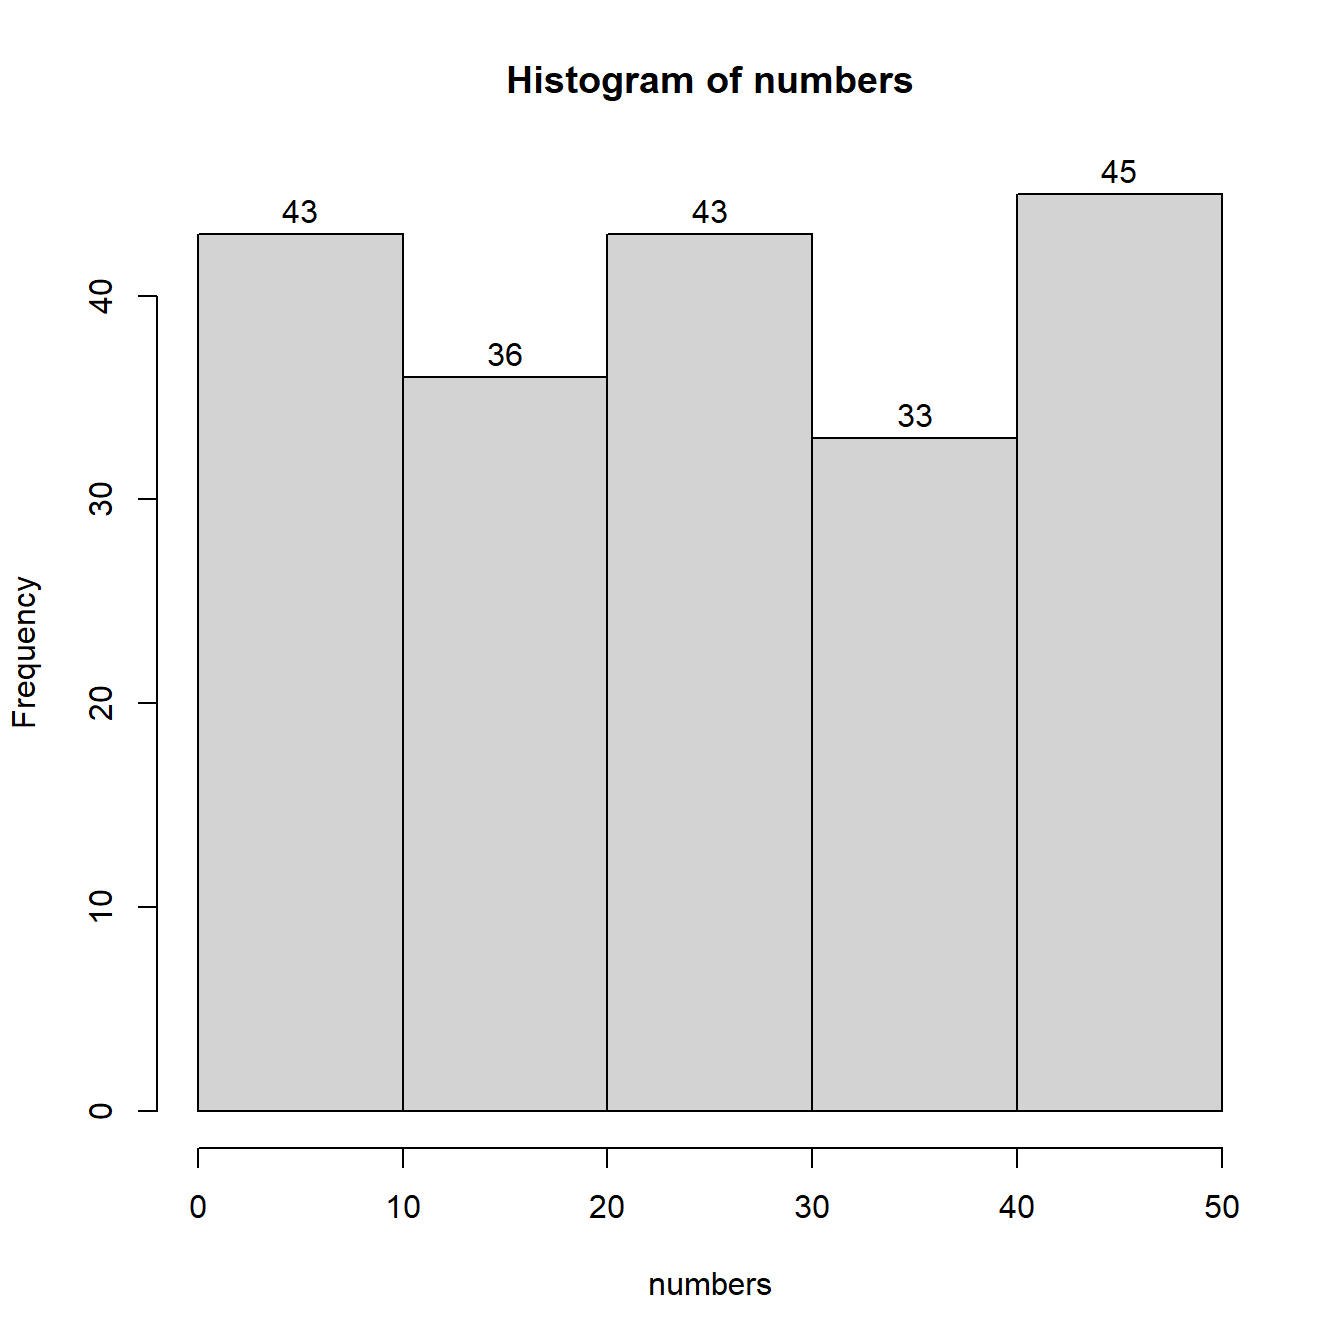
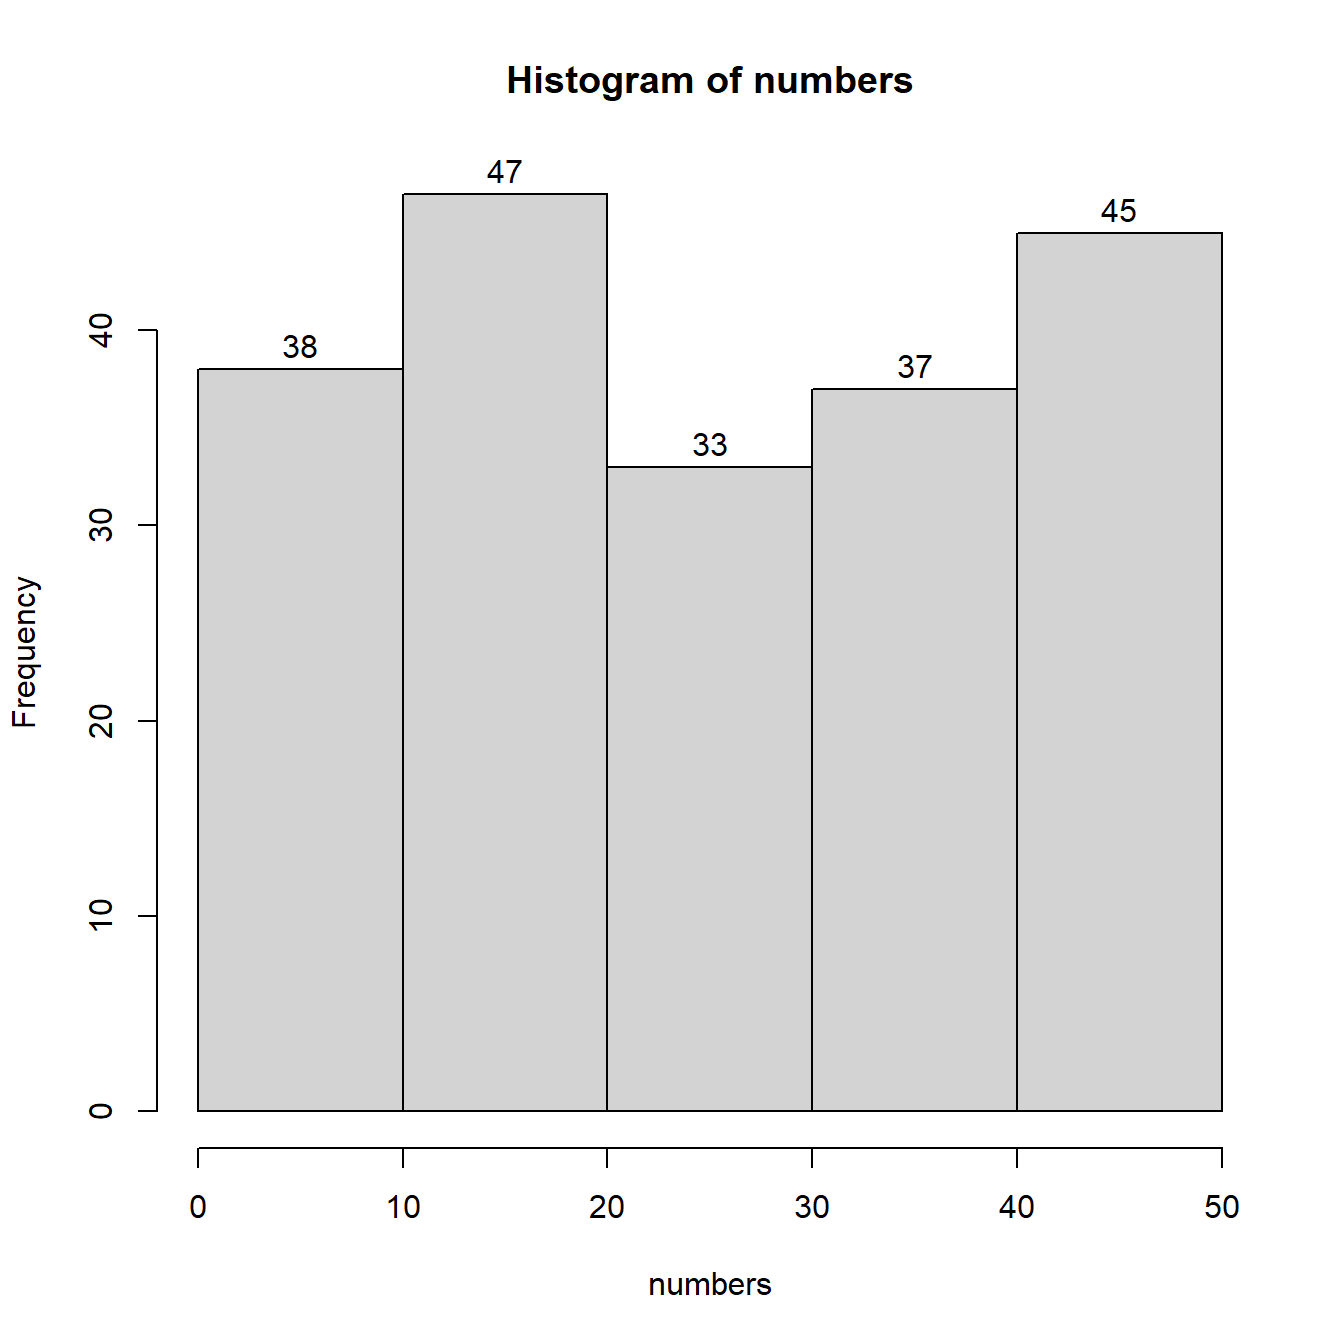
updated exercise 3

diff --git a/docs/Week3.html b/docs/Week3.html
@@ -153,6 +153,7 @@ code span.wa { color: #60a0b0; font-weight: bold; font-style: italic; } /* Warni
 <li class="chapter" data-level="3.3" data-path="Week3.html"><a href="Week3.html#creating-vectors-with-random-numbers"><i class="fa fa-check"></i><b>3.3</b> Creating vectors with random numbers</a></li>
 <li class="chapter" data-level="3.4" data-path="Week3.html"><a href="Week3.html#frequency-tables-in-r-and-histograms"><i class="fa fa-check"></i><b>3.4</b> Frequency tables in R and Histograms</a></li>
 <li class="chapter" data-level="3.5" data-path="Week3.html"><a href="Week3.html#exercise-2"><i class="fa fa-check"></i><b>3.5</b> Exercise 2</a></li>
+<li class="chapter" data-level="3.6" data-path="Week3.html"><a href="Week3.html#exercise-3"><i class="fa fa-check"></i><b>3.6</b> Exercise 3</a></li>
 </ul></li>
 <li class="chapter" data-level="4" data-path="Week4.html"><a href="Week4.html"><i class="fa fa-check"></i><b>4</b> Lab Session 3</a>
 <ul>
@@ -254,7 +255,7 @@ code span.wa { color: #60a0b0; font-weight: bold; font-style: italic; } /* Warni
 <span id="cb7-3"><a href="Week3.html#cb7-3"></a>numbers &lt;-<span class="st"> </span><span class="kw">sample.int</span>(<span class="dv">10</span>, <span class="dv">5</span>, <span class="dt">replace =</span> <span class="ot">TRUE</span>)</span>
 <span id="cb7-4"><a href="Week3.html#cb7-4"></a></span>
 <span id="cb7-5"><a href="Week3.html#cb7-5"></a>numbers</span></code></pre></div>
-<p>[1] 3 4 9 4 4</p>
+<p>[1] 6 10 2 7 6</p>
 <p>As mentioned above, I used a function called <strong>sample.int()</strong>. A <strong>function</strong> in R, is a mechanism that can perform a task. In this case our function can select an integer number randomly. A function also includes two brackets (). Within these brackets we can specify our own arguments in order to be clear what we want R to do for us when this function is used.</p>
 <p>Notice the number 10, this <strong>argument</strong> instructs our function that we want to pick randomly a number between 1 and 10.</p>
 <p>Notice the second number 5, this <strong>argument</strong> instructs our function to give 5 such numbers from 1 to 10.</p>
@@ -268,14 +269,14 @@ code span.wa { color: #60a0b0; font-weight: bold; font-style: italic; } /* Warni
 <span id="cb8-3"><a href="Week3.html#cb8-3"></a><span class="co"># See how my arguments have now changed.</span></span>
 <span id="cb8-4"><a href="Week3.html#cb8-4"></a>numbers &lt;-<span class="st"> </span><span class="kw">sample.int</span>(<span class="dv">50</span>, <span class="dv">200</span>, <span class="dt">replace =</span> <span class="ot">TRUE</span>)</span>
 <span id="cb8-5"><a href="Week3.html#cb8-5"></a>numbers</span></code></pre></div>
-<p>[1] 25 9 31 21 29 12 36 16 3 44 49 15 38 42 6 42 44 42 2 6 12 24 49 35 7
-[26] 17 49 43 8 28 16 1 23 8 29 45 13 23 17 15 12 27 49 48 21 13 15 36 9 1
-[51] 17 47 27 13 44 2 21 2 46 46 12 30 16 7 2 12 1 38 33 24 30 24 41 26 3
-[76] 45 36 40 34 43 3 46 50 47 35 16 26 8 30 1 8 39 31 9 43 10 48 6 43 48
-[101] 12 16 50 19 21 44 24 23 9 15 46 1 7 13 33 41 18 22 8 3 34 42 38 39 38
-[126] 18 33 19 4 45 37 28 34 38 35 49 32 25 4 47 2 23 23 31 42 7 23 31 29 23
-[151] 18 1 34 21 44 19 42 4 30 20 24 6 44 27 49 15 18 5 23 6 24 44 18 17 30
-[176] 21 31 10 48 46 46 19 2 12 33 34 4 44 26 5 25 24 26 32 16 38 39 50 28 1</p>
+<p>[1] 44 21 20 10 2 14 11 29 30 15 1 41 42 38 32 32 30 20 4 46 48 36 11 25 8
+[26] 12 49 40 29 4 43 22 30 41 22 10 33 6 36 11 48 42 12 13 40 28 33 46 6 29
+[51] 4 17 48 6 29 4 17 13 38 38 27 47 2 41 34 13 5 40 6 38 22 11 47 36 15
+[76] 30 24 5 34 3 13 17 6 37 18 13 47 13 10 37 42 7 33 5 45 44 13 25 4 38
+[101] 49 47 32 27 15 44 37 3 42 49 26 6 10 18 29 46 26 33 33 36 14 35 43 14 37
+[126] 17 12 12 33 22 19 14 42 43 49 41 35 38 49 17 11 2 27 31 47 12 5 18 41 2
+[151] 14 5 36 24 41 4 34 20 28 47 3 14 47 11 34 16 3 38 46 1 9 17 6 21 30
+[176] 13 29 19 15 43 50 27 32 41 12 2 27 43 41 23 5 30 23 34 18 42 15 9 43 50</p>
 <div class="sourceCode" id="cb9"><pre class="sourceCode r"><code class="sourceCode r"><span id="cb9-1"><a href="Week3.html#cb9-1"></a><span class="co"># Now we will call a new function to help us group our data.</span></span>
 <span id="cb9-2"><a href="Week3.html#cb9-2"></a><span class="co"># First put them in 5 groups. The numbers in c() declare the numbers that define each group.</span></span>
 <span id="cb9-3"><a href="Week3.html#cb9-3"></a></span>
@@ -284,7 +285,7 @@ code span.wa { color: #60a0b0; font-weight: bold; font-style: italic; } /* Warni
 <span id="cb9-6"><a href="Week3.html#cb9-6"></a><span class="co"># Now I can produce my frequency table using another function</span></span>
 <span id="cb9-7"><a href="Week3.html#cb9-7"></a><span class="kw">summary</span>(groups)</span></code></pre></div>
 <p>(0,10] (10,20] (20,30] (30,40] (40,50]
-43 36 43 33 45</p>
+38 47 33 37 45</p>
 <div class="sourceCode" id="cb10"><pre class="sourceCode r"><code class="sourceCode r"><span id="cb10-1"><a href="Week3.html#cb10-1"></a><span class="co"># We will now use a new function called hist that creates histograms.</span></span>
 <span id="cb10-2"><a href="Week3.html#cb10-2"></a><span class="co"># Note that this function has to work with the original numbers</span></span>
 <span id="cb10-3"><a href="Week3.html#cb10-3"></a><span class="co"># and not with the groups.</span></span>
@@ -302,6 +303,10 @@ code span.wa { color: #60a0b0; font-weight: bold; font-style: italic; } /* Warni
 </div>
 <div id="exercise-2" class="section level2" number="3.5">
 <h2><span class="header-section-number">3.5</span> Exercise 2</h2>
+<p>Empty</p>
+</div>
+<div id="exercise-3" class="section level2" number="3.6">
+<h2><span class="header-section-number">3.6</span> Exercise 3</h2>
 <p>Create a random set of 200 integers between 1 and 40. Group that data in 8 groups and produce the grouped frequency table. Then produce a histogram using these 8 groups. Spend some time to experiments with the number of bars in the histogram as well as generating new random numbers. This will allow you to become good at judging the <strong>skewness</strong> of a <strong>frequency distribution</strong>.</p>
 
 </div>
